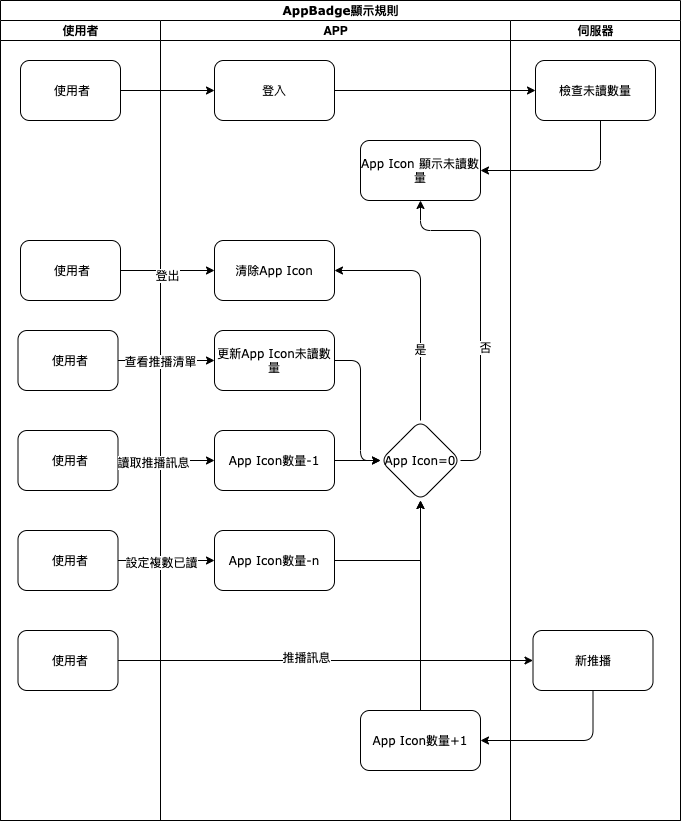
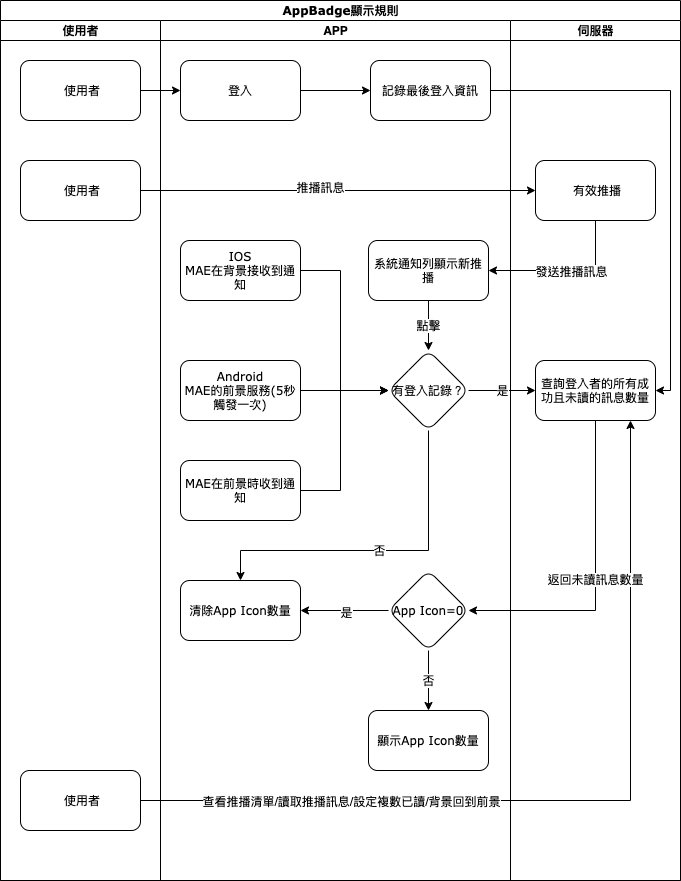
修改推播數量顯示規則

diff --git a/8.10.0/UPDATE/ITEM_2/MAE/notification_icon.md b/8.10.0/UPDATE/ITEM_2/MAE/notification_icon.md
@@ -13,8 +13,27 @@
   * [#8191](http://trac.uneec.com/trac/neco/ticket/8191)
 
 #### <div id="specification">規格說明</div>
-  * 當有通知時，顯示小圓點在APP ICON右上方
-  * 當裝置有支援時可以顯示未讀數量
+  * 限制
+    * 當裝置有支援時才可以顯示未讀數量在APP ICON右上方
+    * Android
+      * Android 8 之後可以選擇顯示小圓點或是顯示數字
+        * 部份機型僅可顯示小圓點(Asus Zenfone系列)
+    * IOS
+      * MAE在前景時，通知列的通知的保留有時間限制
+    * 當伺服器(8.10.0含以上)有支援通知功能時，MAE即可支援通知
+  * 查詢條件
+    * 推播通知數量查詢條件為最後一位登入的使用者的未讀且成功的訊息數量
+  * 刷新時機
+    * 使用者登入時
+    * 背景回到前景時
+    * 點擊通知列通知時
+    * 點擊MAE的系統通知列表中的資訊時
+    * 刷新MAE的系統通知列表時
+    * 設定通知資訊為已讀時
+    * IOS
+      * 收到推播通知時
+    * Android
+      * 通知列常駐通知服務，每5秒會觸發一次來更新推播通知數量
 
 #### <div id="photo">畫面</div>
   * 示意圖
